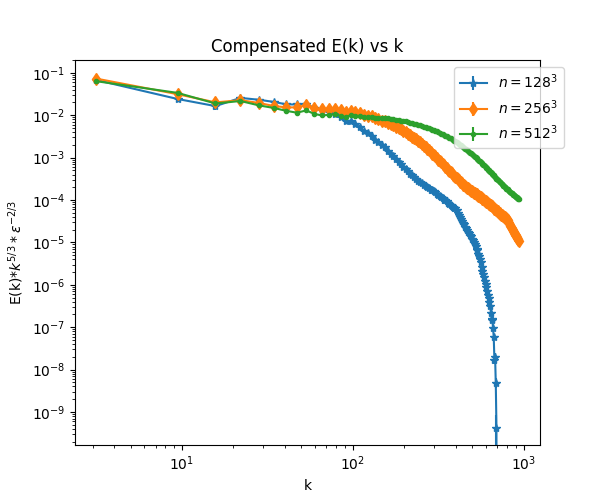
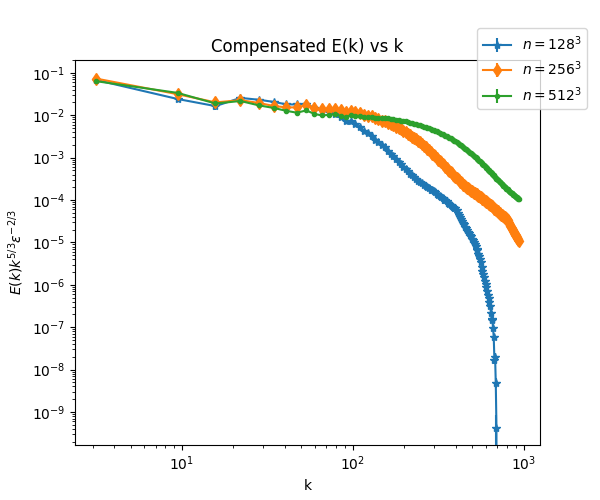
Edited plots

Changed region(s): [[0.75, 0.06, 0.99, 0.3], [0.0, 0.39, 0.03, 0.6], [0.87, 0.06, 0.9, 0.09]]

diff --git a/diff_resolution.py b/diff_resolution.py
@@ -121,8 +121,8 @@ ax.errorbar(k3,Ek_comp3,yerr=del_Ek_comp3,fmt='.-',label=r'$n=512^3$')
 ax.set_yscale('log')
 ax.set_xscale('log')
 plt.xlabel('k')
-plt.ylabel('E(k)*$k^{5/3}*\epsilon^{-2/3}$')
-leg = ax.legend(loc=2, bbox_to_anchor=(0.8, 1))
+plt.ylabel('$E(k) k^{5/3} \epsilon^{-2/3}$')
+leg = ax.legend(loc=2, bbox_to_anchor=(0.85, 1.1))
 plt.title('Compensated E(k) vs k' )
 plt.savefig('E_k_compensated_diff_resolution_fiducial.png')
 
